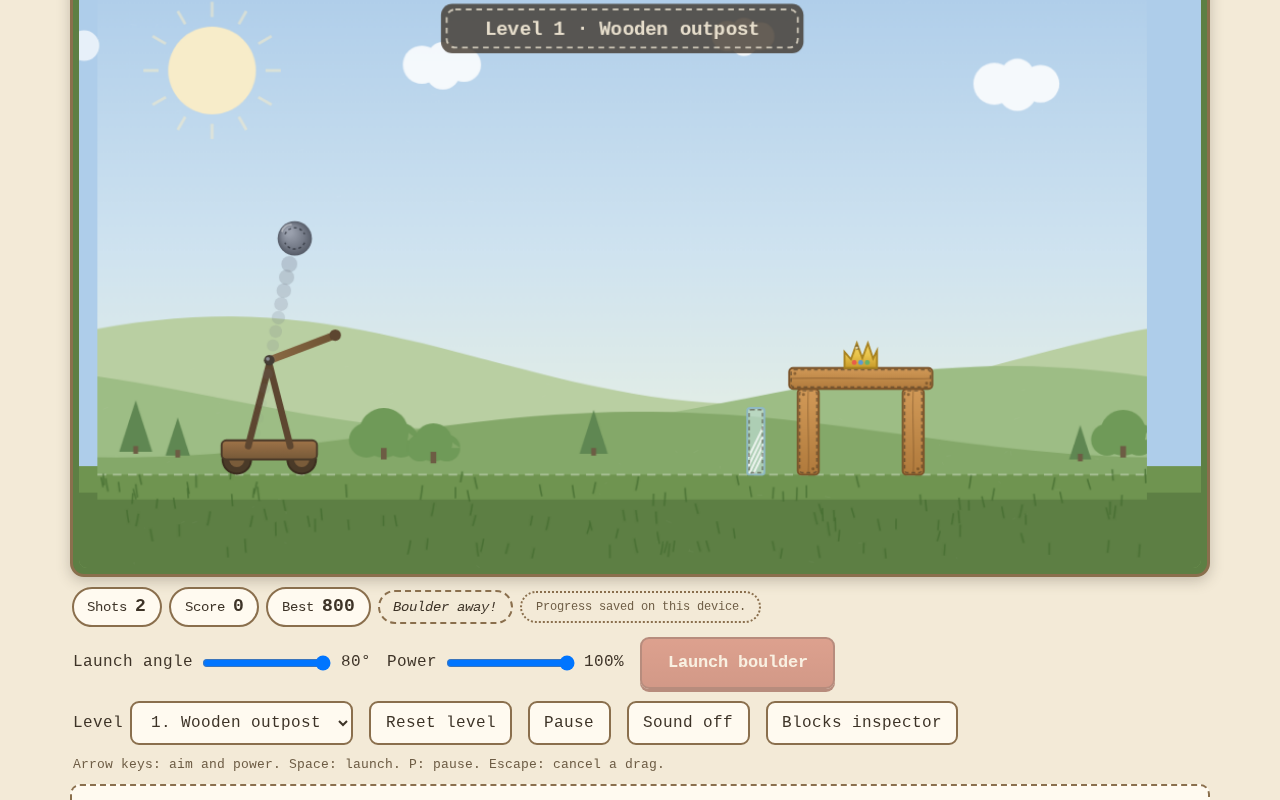
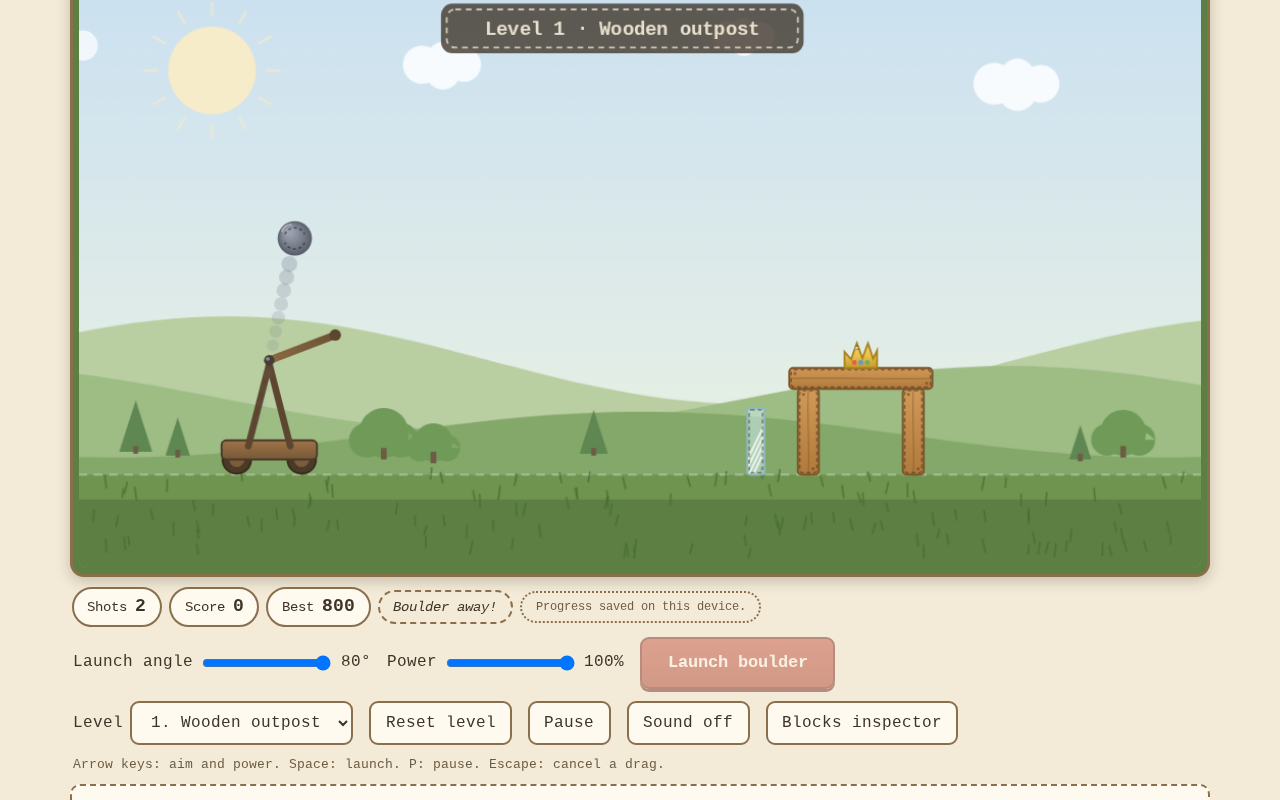
Paint the backdrop beyond the world edges so the zoomed-out flight view has no flat seams

Changed region(s): [[0.0625, 0.0, 0.9375, 0.5938]]

diff --git a/felt_castle_siege.html b/felt_castle_siege.html
@@ -1591,25 +1591,18 @@
   function applyCamera() {
     var cs = ui.cam.s;
     if (cs >= 0.999 && Math.abs(ui.cam.x) < 0.5 && Math.abs(ui.cam.y) < 0.5) return;
-    var vw = World.width / cs;
-    var vh = World.height / cs;
-    var vx0 = ui.cam.x;
-    var vy0 = ui.cam.y;
-    ctx.fillStyle = '#aecdea';
-    ctx.fillRect(vx0 - 4, vy0 - 4, vw + 8, vh + 8);
-    var gTop = Math.max(vy0, World.groundY);
-    if (vy0 + vh > gTop) {
-      ctx.fillStyle = '#6f9450';
-      ctx.fillRect(vx0 - 4, gTop, vw + 8,
-        Math.min(vy0 + vh, World.groundY + 26) - gTop);
-      if (vy0 + vh > World.groundY + 26) {
-        ctx.fillStyle = '#5d7f44';
-        ctx.fillRect(vx0 - 4, World.groundY + 26, vw + 8,
-          vy0 + vh - World.groundY - 26 + 4);
-      }
-    }
     ctx.scale(cs, cs);
     ctx.translate(-ui.cam.x, -ui.cam.y);
+  }
+
+  function fillFlatBackdrop() {
+    var v = visibleRect();
+    ctx.fillStyle = '#aecdea';
+    ctx.fillRect(v.x - 4, v.y - 4, v.w + 8, v.h + 8);
+    ctx.fillStyle = '#6f9450';
+    ctx.fillRect(v.x - 4, World.groundY, v.w + 8, 26);
+    ctx.fillStyle = '#5d7f44';
+    ctx.fillRect(v.x - 4, World.groundY + 26, v.w + 8, v.y + v.h - World.groundY - 26 + 4);
   }
 
   function toWorldPoint(e) {
@@ -1872,20 +1865,32 @@
     ui.time += dt;
   }
 
+  var EXT = { left: -340, top: -470, right: 2130, bottom: 810 };
+
+  function visibleRect() {
+    return {
+      x: ui.cam.x,
+      y: ui.cam.y,
+      w: World.width / ui.cam.s,
+      h: World.height / ui.cam.s
+    };
+  }
+
   function buildBackdrop() {
     var canvas = doc.createElement('canvas');
     if (!canvas || !canvas.getContext) return null;
-    canvas.width = World.width;
-    canvas.height = World.height;
+    canvas.width = EXT.right - EXT.left;
+    canvas.height = EXT.bottom - EXT.top;
     var g = canvas.getContext('2d');
     if (!g) return null;
+    g.translate(-EXT.left, -EXT.top);
 
-    var sky = g.createLinearGradient(0, 0, 0, World.groundY);
+    var sky = g.createLinearGradient(0, EXT.top, 0, World.groundY);
     sky.addColorStop(0, '#aecdea');
     sky.addColorStop(0.55, '#cfe3f0');
     sky.addColorStop(1, '#e9f1e3');
     g.fillStyle = sky;
-    g.fillRect(0, 0, World.width, World.groundY);
+    g.fillRect(EXT.left, EXT.top, EXT.right - EXT.left, World.groundY - EXT.top);
 
     g.fillStyle = '#f7ecc9';
     g.beginPath();
@@ -1917,12 +1922,12 @@
     function hill(base, amp, phase, color) {
       g.fillStyle = color;
       g.beginPath();
-      g.moveTo(0, World.groundY);
-      for (var x = 0; x <= World.width; x += 20) {
+      g.moveTo(EXT.left, World.groundY);
+      for (var x = EXT.left; x <= EXT.right; x += 20) {
         var y = base - Math.sin(phase + x / World.width * Math.PI * 2) * amp;
         g.lineTo(x, y);
       }
-      g.lineTo(World.width, World.groundY);
+      g.lineTo(EXT.right, World.groundY);
       g.closePath();
       g.fill();
     }
@@ -1951,6 +1956,9 @@
       g.fillStyle = '#6d5c44';
       g.fillRect(x - 3, baseY - 10, 6, 12);
     }
+    pine(-140, 498, 50);
+    pine(-90, 502, 38);
+    oak(-250, 502, 24);
     pine(40, 496, 54);
     pine(84, 500, 40);
     oak(300, 502, 26);
@@ -1958,25 +1966,30 @@
     pine(520, 498, 46);
     oak(1075, 500, 24);
     pine(1030, 504, 36);
+    pine(1230, 500, 46);
+    oak(1400, 498, 28);
+    pine(1690, 502, 40);
+    oak(1930, 500, 26);
+    pine(2060, 504, 34);
 
     g.fillStyle = '#6f9450';
-    g.fillRect(0, World.groundY, World.width, World.height - World.groundY);
+    g.fillRect(EXT.left, World.groundY, EXT.right - EXT.left, EXT.bottom - World.groundY);
     g.fillStyle = '#5d7f44';
-    g.fillRect(0, World.groundY + 26, World.width, World.height - World.groundY - 26);
+    g.fillRect(EXT.left, World.groundY + 26, EXT.right - EXT.left, EXT.bottom - World.groundY - 26);
 
     g.strokeStyle = 'rgba(255,255,255,0.35)';
     g.lineWidth = 2;
     if (typeof g.setLineDash === 'function') g.setLineDash([9, 7]);
     g.beginPath();
-    g.moveTo(0, World.groundY);
-    g.lineTo(World.width, World.groundY);
+    g.moveTo(EXT.left, World.groundY);
+    g.lineTo(EXT.right, World.groundY);
     g.stroke();
     if (typeof g.setLineDash === 'function') g.setLineDash([]);
 
     g.strokeStyle = 'rgba(70, 110, 50, 0.8)';
     g.lineWidth = 1.6;
-    for (i = 0; i < 130; i++) {
-      var gx = rnd() * World.width;
+    for (i = 0; i < 280; i++) {
+      var gx = EXT.left + rnd() * (EXT.right - EXT.left);
       var gy = World.groundY + 4 + rnd() * 84;
       var lean = (rnd() - 0.5) * 7;
       g.beginPath();
@@ -1987,9 +2000,9 @@
 
     g.strokeStyle = 'rgba(255,255,255,0.06)';
     g.lineWidth = 1;
-    for (i = 0; i < 220; i++) {
-      var fx = rnd() * World.width;
-      var fy = rnd() * World.height;
+    for (i = 0; i < 320; i++) {
+      var fx = EXT.left + rnd() * (EXT.right - EXT.left);
+      var fy = EXT.top + rnd() * (EXT.bottom - EXT.top);
       g.beginPath();
       g.moveTo(fx, fy);
       g.lineTo(fx + (rnd() - 0.5) * 14, fy + (rnd() - 0.5) * 6);
@@ -2350,12 +2363,9 @@
     ctx.save();
     applyCamera();
     if (backdropCache) {
-      ctx.drawImage(backdropCache, 0, 0);
+      ctx.drawImage(backdropCache, EXT.left, EXT.top);
     } else {
-      ctx.fillStyle = '#aecdea';
-      ctx.fillRect(0, 0, World.width, World.groundY);
-      ctx.fillStyle = '#6f9450';
-      ctx.fillRect(0, World.groundY, World.width, World.height - World.groundY);
+      fillFlatBackdrop();
     }
 
     ctx.save();
@@ -2473,8 +2483,9 @@
     ctx.textAlign = 'left';
 
     if (ui.flash > 0) {
+      var v = visibleRect();
       ctx.fillStyle = 'rgba(255, 240, 200, ' + (ui.flash * 0.35).toFixed(2) + ')';
-      ctx.fillRect(0, 0, World.width, World.height);
+      ctx.fillRect(v.x - 4, v.y - 4, v.w + 8, v.h + 8);
     }
 
     if (ui.banner) {

diff --git a/index.html b/index.html
@@ -1591,25 +1591,18 @@
   function applyCamera() {
     var cs = ui.cam.s;
     if (cs >= 0.999 && Math.abs(ui.cam.x) < 0.5 && Math.abs(ui.cam.y) < 0.5) return;
-    var vw = World.width / cs;
-    var vh = World.height / cs;
-    var vx0 = ui.cam.x;
-    var vy0 = ui.cam.y;
-    ctx.fillStyle = '#aecdea';
-    ctx.fillRect(vx0 - 4, vy0 - 4, vw + 8, vh + 8);
-    var gTop = Math.max(vy0, World.groundY);
-    if (vy0 + vh > gTop) {
-      ctx.fillStyle = '#6f9450';
-      ctx.fillRect(vx0 - 4, gTop, vw + 8,
-        Math.min(vy0 + vh, World.groundY + 26) - gTop);
-      if (vy0 + vh > World.groundY + 26) {
-        ctx.fillStyle = '#5d7f44';
-        ctx.fillRect(vx0 - 4, World.groundY + 26, vw + 8,
-          vy0 + vh - World.groundY - 26 + 4);
-      }
-    }
     ctx.scale(cs, cs);
     ctx.translate(-ui.cam.x, -ui.cam.y);
+  }
+
+  function fillFlatBackdrop() {
+    var v = visibleRect();
+    ctx.fillStyle = '#aecdea';
+    ctx.fillRect(v.x - 4, v.y - 4, v.w + 8, v.h + 8);
+    ctx.fillStyle = '#6f9450';
+    ctx.fillRect(v.x - 4, World.groundY, v.w + 8, 26);
+    ctx.fillStyle = '#5d7f44';
+    ctx.fillRect(v.x - 4, World.groundY + 26, v.w + 8, v.y + v.h - World.groundY - 26 + 4);
   }
 
   function toWorldPoint(e) {
@@ -1872,20 +1865,32 @@
     ui.time += dt;
   }
 
+  var EXT = { left: -340, top: -470, right: 2130, bottom: 810 };
+
+  function visibleRect() {
+    return {
+      x: ui.cam.x,
+      y: ui.cam.y,
+      w: World.width / ui.cam.s,
+      h: World.height / ui.cam.s
+    };
+  }
+
   function buildBackdrop() {
     var canvas = doc.createElement('canvas');
     if (!canvas || !canvas.getContext) return null;
-    canvas.width = World.width;
-    canvas.height = World.height;
+    canvas.width = EXT.right - EXT.left;
+    canvas.height = EXT.bottom - EXT.top;
     var g = canvas.getContext('2d');
     if (!g) return null;
+    g.translate(-EXT.left, -EXT.top);
 
-    var sky = g.createLinearGradient(0, 0, 0, World.groundY);
+    var sky = g.createLinearGradient(0, EXT.top, 0, World.groundY);
     sky.addColorStop(0, '#aecdea');
     sky.addColorStop(0.55, '#cfe3f0');
     sky.addColorStop(1, '#e9f1e3');
     g.fillStyle = sky;
-    g.fillRect(0, 0, World.width, World.groundY);
+    g.fillRect(EXT.left, EXT.top, EXT.right - EXT.left, World.groundY - EXT.top);
 
     g.fillStyle = '#f7ecc9';
     g.beginPath();
@@ -1917,12 +1922,12 @@
     function hill(base, amp, phase, color) {
       g.fillStyle = color;
       g.beginPath();
-      g.moveTo(0, World.groundY);
-      for (var x = 0; x <= World.width; x += 20) {
+      g.moveTo(EXT.left, World.groundY);
+      for (var x = EXT.left; x <= EXT.right; x += 20) {
         var y = base - Math.sin(phase + x / World.width * Math.PI * 2) * amp;
         g.lineTo(x, y);
       }
-      g.lineTo(World.width, World.groundY);
+      g.lineTo(EXT.right, World.groundY);
       g.closePath();
       g.fill();
     }
@@ -1951,6 +1956,9 @@
       g.fillStyle = '#6d5c44';
       g.fillRect(x - 3, baseY - 10, 6, 12);
     }
+    pine(-140, 498, 50);
+    pine(-90, 502, 38);
+    oak(-250, 502, 24);
     pine(40, 496, 54);
     pine(84, 500, 40);
     oak(300, 502, 26);
@@ -1958,25 +1966,30 @@
     pine(520, 498, 46);
     oak(1075, 500, 24);
     pine(1030, 504, 36);
+    pine(1230, 500, 46);
+    oak(1400, 498, 28);
+    pine(1690, 502, 40);
+    oak(1930, 500, 26);
+    pine(2060, 504, 34);
 
     g.fillStyle = '#6f9450';
-    g.fillRect(0, World.groundY, World.width, World.height - World.groundY);
+    g.fillRect(EXT.left, World.groundY, EXT.right - EXT.left, EXT.bottom - World.groundY);
     g.fillStyle = '#5d7f44';
-    g.fillRect(0, World.groundY + 26, World.width, World.height - World.groundY - 26);
+    g.fillRect(EXT.left, World.groundY + 26, EXT.right - EXT.left, EXT.bottom - World.groundY - 26);
 
     g.strokeStyle = 'rgba(255,255,255,0.35)';
     g.lineWidth = 2;
     if (typeof g.setLineDash === 'function') g.setLineDash([9, 7]);
     g.beginPath();
-    g.moveTo(0, World.groundY);
-    g.lineTo(World.width, World.groundY);
+    g.moveTo(EXT.left, World.groundY);
+    g.lineTo(EXT.right, World.groundY);
     g.stroke();
     if (typeof g.setLineDash === 'function') g.setLineDash([]);
 
     g.strokeStyle = 'rgba(70, 110, 50, 0.8)';
     g.lineWidth = 1.6;
-    for (i = 0; i < 130; i++) {
-      var gx = rnd() * World.width;
+    for (i = 0; i < 280; i++) {
+      var gx = EXT.left + rnd() * (EXT.right - EXT.left);
       var gy = World.groundY + 4 + rnd() * 84;
       var lean = (rnd() - 0.5) * 7;
       g.beginPath();
@@ -1987,9 +2000,9 @@
 
     g.strokeStyle = 'rgba(255,255,255,0.06)';
     g.lineWidth = 1;
-    for (i = 0; i < 220; i++) {
-      var fx = rnd() * World.width;
-      var fy = rnd() * World.height;
+    for (i = 0; i < 320; i++) {
+      var fx = EXT.left + rnd() * (EXT.right - EXT.left);
+      var fy = EXT.top + rnd() * (EXT.bottom - EXT.top);
       g.beginPath();
       g.moveTo(fx, fy);
       g.lineTo(fx + (rnd() - 0.5) * 14, fy + (rnd() - 0.5) * 6);
@@ -2350,12 +2363,9 @@
     ctx.save();
     applyCamera();
     if (backdropCache) {
-      ctx.drawImage(backdropCache, 0, 0);
+      ctx.drawImage(backdropCache, EXT.left, EXT.top);
     } else {
-      ctx.fillStyle = '#aecdea';
-      ctx.fillRect(0, 0, World.width, World.groundY);
-      ctx.fillStyle = '#6f9450';
-      ctx.fillRect(0, World.groundY, World.width, World.height - World.groundY);
+      fillFlatBackdrop();
     }
 
     ctx.save();
@@ -2473,8 +2483,9 @@
     ctx.textAlign = 'left';
 
     if (ui.flash > 0) {
+      var v = visibleRect();
       ctx.fillStyle = 'rgba(255, 240, 200, ' + (ui.flash * 0.35).toFixed(2) + ')';
-      ctx.fillRect(0, 0, World.width, World.height);
+      ctx.fillRect(v.x - 4, v.y - 4, v.w + 8, v.h + 8);
     }
 
     if (ui.banner) {
